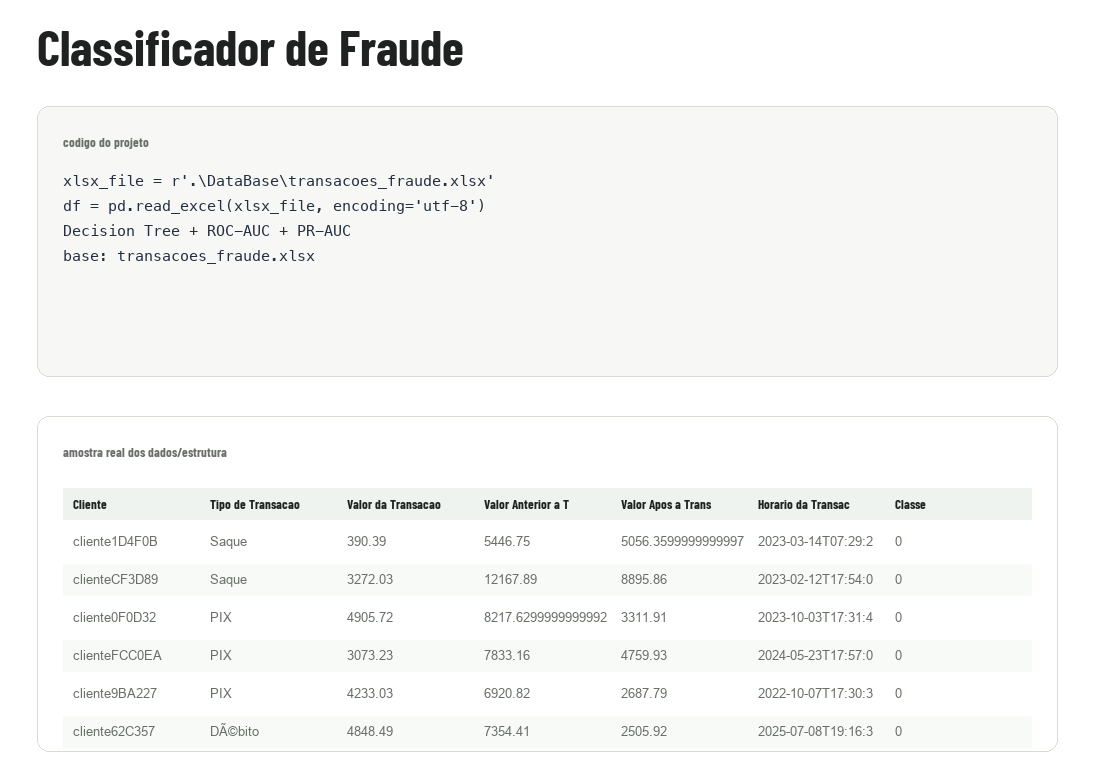
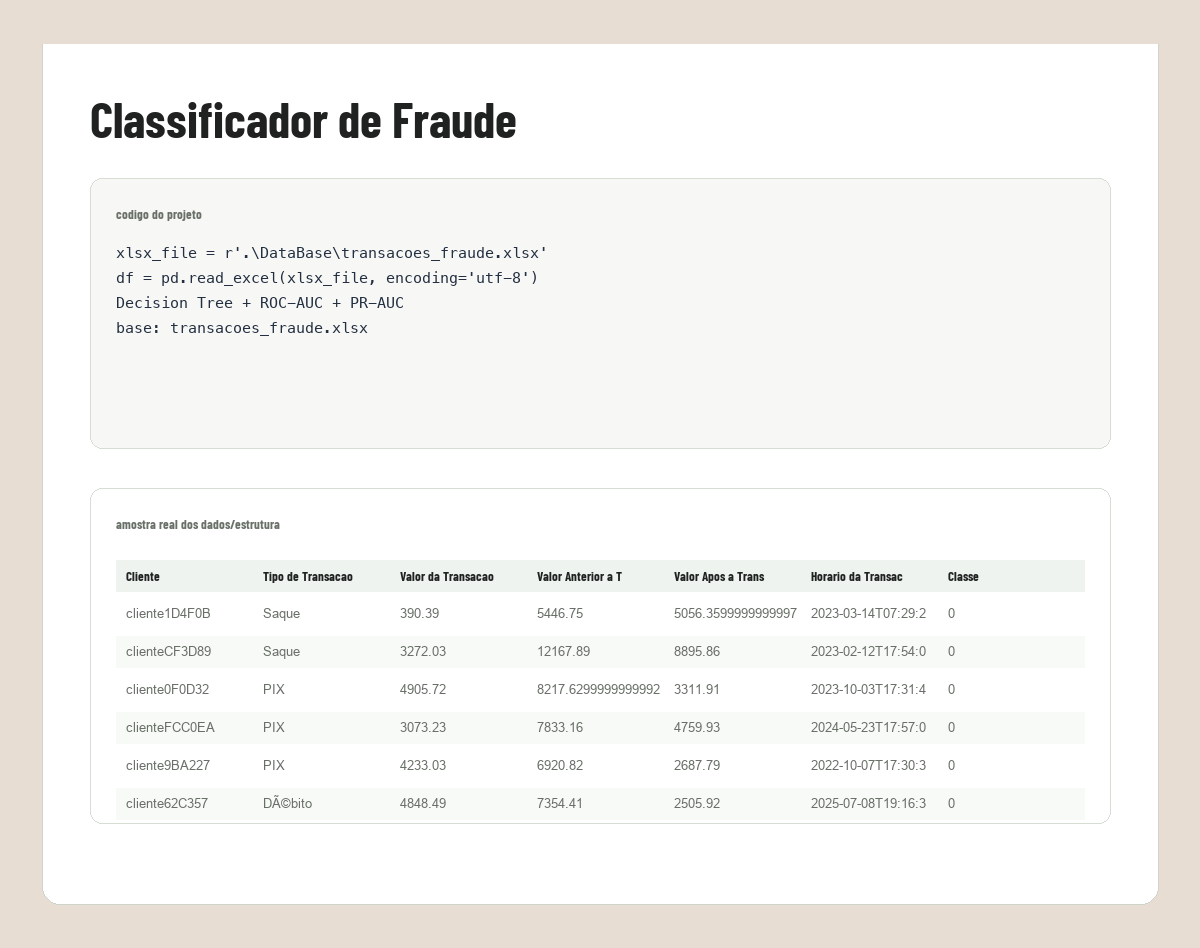
Project previews: strip only the window chrome, keep content intact
- Remove the browser-mockup title bar from the 11 AI-generated previews

- Keep content at natural scale (no zoom/crop); card-colored margins stay seamless

- Display seamlessly (contain, transparent, no frame); bump cache-busting query

diff --git a/dist/index.html b/dist/index.html
@@ -112,7 +112,7 @@
 
         <article class="project" data-category="dados ia" hidden>
           <button type="button" class="project-visual visual-churn" data-project="churn" aria-label="Conhecer o projeto Análise de Churn SaaS">
-            <img class="project-preview-image" src="assets/gh-churn.png?v=20261009" alt="Dashboard visual do projeto Análise de Churn SaaS" width="1200" height="600" loading="lazy">
+            <img class="project-preview-image" src="assets/gh-churn.png?v=20261010" alt="Dashboard visual do projeto Análise de Churn SaaS" width="1200" height="600" loading="lazy">
             <span class="project-open"><img src="assets/icons/arrow-up-right.svg" alt="" width="24" height="24"></span>
           </button>
           <div class="project-meta"><div><p class="eyebrow">PYTHON · SCIKIT-LEARN · XGBOOST</p><h3><button type="button" data-project="churn" data-i18n="churnTitle">Análise de Churn SaaS</button></h3></div><span>2026</span></div><p class="project-description" data-i18n="churnDescription">Modelagem preditiva de cancelamento (Logistic Regression, Random Forest e XGBoost) com interpretação de variáveis e recomendações para Produto e CS.</p>
@@ -120,7 +120,7 @@
 
         <article class="project" data-category="software" hidden>
           <button type="button" class="project-visual visual-lyrics" data-project="lyrics" aria-label="Conhecer o projeto Language Lyrics Lab">
-            <img class="project-preview-image" src="assets/gh-lyrics.png?v=20261009" alt="Captura do aplicativo Language Lyrics Lab com sessão de estudo e letras traduzidas" width="1200" height="600" loading="lazy">
+            <img class="project-preview-image" src="assets/gh-lyrics.png?v=20261010" alt="Captura do aplicativo Language Lyrics Lab com sessão de estudo e letras traduzidas" width="1200" height="600" loading="lazy">
             <span class="project-open"><img src="assets/icons/arrow-up-right.svg" alt="" width="24" height="24"></span>
           </button>
           <div class="project-meta"><div><p class="eyebrow">EXPO · TYPESCRIPT · ÁUDIO</p><h3><button type="button" data-project="lyrics">Language Lyrics Lab</button></h3></div><span>2026</span></div><p class="project-description" data-i18n="lyricsDescription">App de idiomas com letras sincronizadas, tradução linha a linha, flashcards e modos de revisão, usando LRCLIB e LibreTranslate.</p>
@@ -128,7 +128,7 @@
 
         <article class="project" data-category="software" hidden>
           <button type="button" class="project-visual visual-scheduler" data-project="scheduler" aria-label="Conhecer o projeto Simulador de Escalonamento">
-            <img class="project-preview-image" src="assets/gh-scheduler.png?v=20261009" alt="Visual do simulador de escalonamento com linha do tempo e métricas do motor" width="1200" height="600" loading="lazy">
+            <img class="project-preview-image" src="assets/gh-scheduler.png?v=20261010" alt="Visual do simulador de escalonamento com linha do tempo e métricas do motor" width="1200" height="600" loading="lazy">
             <span class="project-open"><img src="assets/icons/arrow-up-right.svg" alt="" width="24" height="24"></span>
           </button>
           <div class="project-meta"><div><p class="eyebrow">PYTHON · SISTEMAS OPERACIONAIS</p><h3><button type="button" data-project="scheduler" data-i18n="schedulerTitle">Simulador de Escalonamento</button></h3></div><span>2026</span></div><p class="project-description" data-i18n="schedulerDescription">Simulador de algoritmos de escalonamento de CPU com inversão e herança de prioridade, protocolo de teto, aging, cenários persistentes e testes.</p>
@@ -136,7 +136,7 @@
 
         <article class="project" data-category="software" hidden>
           <button type="button" class="project-visual visual-doppler" data-project="doppler" aria-label="Conhecer o projeto Simulador de Áudio Doppler">
-            <img class="project-preview-image" src="assets/gh-doppler.png?v=20261009" alt="Prévia fiel da interface JavaFX do simulador de áudio Doppler" width="1200" height="600" loading="lazy">
+            <img class="project-preview-image" src="assets/gh-doppler.png?v=20261010" alt="Prévia fiel da interface JavaFX do simulador de áudio Doppler" width="1200" height="600" loading="lazy">
             <span class="project-open"><img src="assets/icons/arrow-up-right.svg" alt="" width="24" height="24"></span>
           </button>
           <div class="project-meta"><div><p class="eyebrow">JAVA · POO · SQL</p><h3><button type="button" data-project="doppler" data-i18n="dopplerTitle">Simulador de Áudio Doppler</button></h3></div><span>2025</span></div><p class="project-description" data-i18n="dopplerDescription">Projeto multidisciplinar em Java que simula o comportamento do áudio com o efeito Doppler, unindo física, orientação a objetos e banco de dados.</p>
@@ -144,7 +144,7 @@
 
         <article class="project" data-category="ia dados" hidden>
           <button type="button" class="project-visual visual-fraud" data-project="fraud" aria-label="Conhecer o projeto Classificador de Fraude">
-            <img class="project-preview-image" src="assets/gh-fraud.png?v=20261009" alt="Dashboard do classificador de fraude usando a base transacoes_fraude.xlsx" width="1200" height="600" loading="lazy">
+            <img class="project-preview-image" src="assets/gh-fraud.png?v=20261010" alt="Dashboard do classificador de fraude usando a base transacoes_fraude.xlsx" width="1200" height="600" loading="lazy">
             <span class="project-open"><img src="assets/icons/arrow-up-right.svg" alt="" width="24" height="24"></span>
           </button>
           <div class="project-meta"><div><p class="eyebrow">PYTHON · DECISION TREE · ML</p><h3><button type="button" data-project="fraud" data-i18n="fraudTitle">Classificador de Fraude</button></h3></div><span>2025</span></div><p class="project-description" data-i18n="fraudDescription">Árvore de decisão para sinalizar transações fraudulentas: EDA, preparo de atributos, tratamento de desbalanceamento e avaliação por ROC-AUC e PR-AUC.</p>
@@ -152,7 +152,7 @@
 
         <article class="project" data-category="software" hidden>
           <button type="button" class="project-visual visual-homework" data-project="homework" aria-label="Conhecer o projeto Gestor de Tarefas Escolares">
-            <img class="project-preview-image" src="assets/gh-homework.png?v=20261009" alt="Prévia da tela de gráfico do app Homework Management" width="1200" height="600" loading="lazy">
+            <img class="project-preview-image" src="assets/gh-homework.png?v=20261010" alt="Prévia da tela de gráfico do app Homework Management" width="1200" height="600" loading="lazy">
             <span class="project-open"><img src="assets/icons/arrow-up-right.svg" alt="" width="24" height="24"></span>
           </button>
           <div class="project-meta"><div><p class="eyebrow">REACT NATIVE · EXPO · SQLITE</p><h3><button type="button" data-project="homework" data-i18n="homeworkTitle">Gestor de Tarefas Escolares</button></h3></div><span>2026</span></div><p class="project-description" data-i18n="homeworkDescription">App mobile para organizar a vida escolar: alunos, trabalhos, atividades, progresso e gráficos, feito com React Native, Expo e SQLite.</p>
@@ -160,7 +160,7 @@
 
         <article class="project" data-category="dados" hidden>
           <button type="button" class="project-visual visual-dashboards" data-project="dashboards" aria-label="Conhecer o projeto Dashboards de Vendas e Clientes">
-            <img class="project-preview-image" src="assets/gh-dashboards.png?v=20261009" alt="Dashboard de vendas e clientes gerado a partir da planilha DadosN2.xlsx" width="1200" height="600" loading="lazy">
+            <img class="project-preview-image" src="assets/gh-dashboards.png?v=20261010" alt="Dashboard de vendas e clientes gerado a partir da planilha DadosN2.xlsx" width="1200" height="600" loading="lazy">
             <span class="project-open"><img src="assets/icons/arrow-up-right.svg" alt="" width="24" height="24"></span>
           </button>
           <div class="project-meta"><div><p class="eyebrow">BI · DADOS · SQL</p><h3><button type="button" data-project="dashboards" data-i18n="dashboardsTitle">Dashboards de Vendas e Clientes</button></h3></div><span>2026</span></div><p class="project-description" data-i18n="dashboardsDescription">Dashboards de vendas e clientes para análise de negócio, unindo processamento de dados, visualização e conceitos de banco de dados.</p>
@@ -168,7 +168,7 @@
 
         <article class="project" data-category="software" hidden>
           <button type="button" class="project-visual visual-dna" data-project="dna" aria-label="Conhecer o projeto DNACharacter">
-            <img class="project-preview-image" src="assets/gh-dna.png?v=20261009" alt="Captura do app DNACharacter com avatar e controles de traços" width="1200" height="600" loading="lazy">
+            <img class="project-preview-image" src="assets/gh-dna.png?v=20261010" alt="Captura do app DNACharacter com avatar e controles de traços" width="1200" height="600" loading="lazy">
             <span class="project-open"><img src="assets/icons/arrow-up-right.svg" alt="" width="24" height="24"></span>
           </button>
           <div class="project-meta"><div><p class="eyebrow">JAVASCRIPT · HTML · CSS</p><h3><button type="button" data-project="dna">DNACharacter</button></h3></div><span>2025</span></div><p class="project-description" data-i18n="dnaDescription">App web paramétrico: ajuste cinco características e veja o avatar responder em corpo, postura e expressão.</p>
@@ -176,7 +176,7 @@
 
         <article class="project" data-category="dados" hidden>
           <button type="button" class="project-visual visual-netflix" data-project="netflix" aria-label="Conhecer o projeto Netflix Top 10 EDA">
-            <img class="project-preview-image" src="assets/gh-netflix.png?v=20261009" alt="Outputs reais do notebook Netflix Top 10 EDA" width="1200" height="600" loading="lazy">
+            <img class="project-preview-image" src="assets/gh-netflix.png?v=20261010" alt="Outputs reais do notebook Netflix Top 10 EDA" width="1200" height="600" loading="lazy">
             <span class="project-open"><img src="assets/icons/arrow-up-right.svg" alt="" width="24" height="24"></span>
           </button>
           <div class="project-meta"><div><p class="eyebrow">PYTHON · PANDAS · MATPLOTLIB</p><h3><button type="button" data-project="netflix">Netflix Top 10 EDA</button></h3></div><span>2025</span></div><p class="project-description" data-i18n="netflixDescription">Análise exploratória do Netflix Daily Top 10 com Pandas e Matplotlib: validação, distribuições, cobertura temporal e títulos de maior audiência.</p>
@@ -184,7 +184,7 @@
 
         <article class="project" data-category="dados" hidden>
           <button type="button" class="project-visual visual-meal" data-project="meal" aria-label="Conhecer o projeto Análise de Delivery">
-            <img class="project-preview-image" src="assets/gh-meal.png?v=20261009" alt="Dashboard de delivery gerado a partir de pedidos.csv e cardapio.csv" width="1200" height="600" loading="lazy">
+            <img class="project-preview-image" src="assets/gh-meal.png?v=20261010" alt="Dashboard de delivery gerado a partir de pedidos.csv e cardapio.csv" width="1200" height="600" loading="lazy">
             <span class="project-open"><img src="assets/icons/arrow-up-right.svg" alt="" width="24" height="24"></span>
           </button>
           <div class="project-meta"><div><p class="eyebrow">PYTHON · PANDAS · NUMPY</p><h3><button type="button" data-project="meal" data-i18n="mealTitle">Análise de Delivery</button></h3></div><span>2025</span></div><p class="project-description" data-i18n="mealDescription">Análise de dados de delivery com Pandas e NumPy: EDA, engenharia de atributos, tendência mensal de receita e principais KPIs de negócio.</p>
@@ -192,7 +192,7 @@
 
         <article class="project" data-category="dados" hidden>
           <button type="button" class="project-visual visual-dbprojects" data-project="dbprojects" aria-label="Conhecer o projeto Projetos de Banco de Dados">
-            <img class="project-preview-image" src="assets/gh-dbprojects.png?v=20261009" alt="Prévia dos notebooks Titanic e IceCream do projeto de banco de dados" width="1200" height="600" loading="lazy">
+            <img class="project-preview-image" src="assets/gh-dbprojects.png?v=20261010" alt="Prévia dos notebooks Titanic e IceCream do projeto de banco de dados" width="1200" height="600" loading="lazy">
             <span class="project-open"><img src="assets/icons/arrow-up-right.svg" alt="" width="24" height="24"></span>
           </button>
           <div class="project-meta"><div><p class="eyebrow">JUPYTER · PYTHON · SQL</p><h3><button type="button" data-project="dbprojects" data-i18n="dbprojectsTitle">Projetos de Banco de Dados</button></h3></div><span>2026</span></div><p class="project-description" data-i18n="dbprojectsDescription">Coleção de projetos de banco de dados e análise de dados, com exercícios práticos usando os conjuntos IceCream e Titanic.</p>
@@ -200,7 +200,7 @@
 
         <article class="project" data-category="dados" hidden>
           <button type="button" class="project-visual visual-statistics" data-project="statistics" aria-label="Conhecer o projeto Estatística para Devs">
-            <img class="project-preview-image" src="assets/gh-statistics.png?v=20261009" alt="Gráficos reais do script Pandas Revenue Challenge" width="1200" height="600" loading="lazy">
+            <img class="project-preview-image" src="assets/gh-statistics.png?v=20261010" alt="Gráficos reais do script Pandas Revenue Challenge" width="1200" height="600" loading="lazy">
             <span class="project-open"><img src="assets/icons/arrow-up-right.svg" alt="" width="24" height="24"></span>
           </button>
           <div class="project-meta"><div><p class="eyebrow">PYTHON · PANDAS · MATPLOTLIB</p><h3><button type="button" data-project="statistics" data-i18n="statisticsTitle">Estatística para Devs</button></h3></div><span>2025</span></div><p class="project-description" data-i18n="statisticsDescription">Desafio de estatística e análise com Pandas: limpeza de dados, cálculo de médias e geração de gráficos de barra e linha por mês com Matplotlib.</p>

diff --git a/index.html b/index.html
@@ -112,7 +112,7 @@
 
         <article class="project" data-category="dados ia" hidden>
           <button type="button" class="project-visual visual-churn" data-project="churn" aria-label="Conhecer o projeto Análise de Churn SaaS">
-            <img class="project-preview-image" src="assets/gh-churn.png?v=20261009" alt="Dashboard visual do projeto Análise de Churn SaaS" width="1200" height="600" loading="lazy">
+            <img class="project-preview-image" src="assets/gh-churn.png?v=20261010" alt="Dashboard visual do projeto Análise de Churn SaaS" width="1200" height="600" loading="lazy">
             <span class="project-open"><img src="assets/icons/arrow-up-right.svg" alt="" width="24" height="24"></span>
           </button>
           <div class="project-meta"><div><p class="eyebrow">PYTHON · SCIKIT-LEARN · XGBOOST</p><h3><button type="button" data-project="churn" data-i18n="churnTitle">Análise de Churn SaaS</button></h3></div><span>2026</span></div><p class="project-description" data-i18n="churnDescription">Modelagem preditiva de cancelamento (Logistic Regression, Random Forest e XGBoost) com interpretação de variáveis e recomendações para Produto e CS.</p>
@@ -120,7 +120,7 @@
 
         <article class="project" data-category="software" hidden>
           <button type="button" class="project-visual visual-lyrics" data-project="lyrics" aria-label="Conhecer o projeto Language Lyrics Lab">
-            <img class="project-preview-image" src="assets/gh-lyrics.png?v=20261009" alt="Captura do aplicativo Language Lyrics Lab com sessão de estudo e letras traduzidas" width="1200" height="600" loading="lazy">
+            <img class="project-preview-image" src="assets/gh-lyrics.png?v=20261010" alt="Captura do aplicativo Language Lyrics Lab com sessão de estudo e letras traduzidas" width="1200" height="600" loading="lazy">
             <span class="project-open"><img src="assets/icons/arrow-up-right.svg" alt="" width="24" height="24"></span>
           </button>
           <div class="project-meta"><div><p class="eyebrow">EXPO · TYPESCRIPT · ÁUDIO</p><h3><button type="button" data-project="lyrics">Language Lyrics Lab</button></h3></div><span>2026</span></div><p class="project-description" data-i18n="lyricsDescription">App de idiomas com letras sincronizadas, tradução linha a linha, flashcards e modos de revisão, usando LRCLIB e LibreTranslate.</p>
@@ -128,7 +128,7 @@
 
         <article class="project" data-category="software" hidden>
           <button type="button" class="project-visual visual-scheduler" data-project="scheduler" aria-label="Conhecer o projeto Simulador de Escalonamento">
-            <img class="project-preview-image" src="assets/gh-scheduler.png?v=20261009" alt="Visual do simulador de escalonamento com linha do tempo e métricas do motor" width="1200" height="600" loading="lazy">
+            <img class="project-preview-image" src="assets/gh-scheduler.png?v=20261010" alt="Visual do simulador de escalonamento com linha do tempo e métricas do motor" width="1200" height="600" loading="lazy">
             <span class="project-open"><img src="assets/icons/arrow-up-right.svg" alt="" width="24" height="24"></span>
           </button>
           <div class="project-meta"><div><p class="eyebrow">PYTHON · SISTEMAS OPERACIONAIS</p><h3><button type="button" data-project="scheduler" data-i18n="schedulerTitle">Simulador de Escalonamento</button></h3></div><span>2026</span></div><p class="project-description" data-i18n="schedulerDescription">Simulador de algoritmos de escalonamento de CPU com inversão e herança de prioridade, protocolo de teto, aging, cenários persistentes e testes.</p>
@@ -136,7 +136,7 @@
 
         <article class="project" data-category="software" hidden>
           <button type="button" class="project-visual visual-doppler" data-project="doppler" aria-label="Conhecer o projeto Simulador de Áudio Doppler">
-            <img class="project-preview-image" src="assets/gh-doppler.png?v=20261009" alt="Prévia fiel da interface JavaFX do simulador de áudio Doppler" width="1200" height="600" loading="lazy">
+            <img class="project-preview-image" src="assets/gh-doppler.png?v=20261010" alt="Prévia fiel da interface JavaFX do simulador de áudio Doppler" width="1200" height="600" loading="lazy">
             <span class="project-open"><img src="assets/icons/arrow-up-right.svg" alt="" width="24" height="24"></span>
           </button>
           <div class="project-meta"><div><p class="eyebrow">JAVA · POO · SQL</p><h3><button type="button" data-project="doppler" data-i18n="dopplerTitle">Simulador de Áudio Doppler</button></h3></div><span>2025</span></div><p class="project-description" data-i18n="dopplerDescription">Projeto multidisciplinar em Java que simula o comportamento do áudio com o efeito Doppler, unindo física, orientação a objetos e banco de dados.</p>
@@ -144,7 +144,7 @@
 
         <article class="project" data-category="ia dados" hidden>
           <button type="button" class="project-visual visual-fraud" data-project="fraud" aria-label="Conhecer o projeto Classificador de Fraude">
-            <img class="project-preview-image" src="assets/gh-fraud.png?v=20261009" alt="Dashboard do classificador de fraude usando a base transacoes_fraude.xlsx" width="1200" height="600" loading="lazy">
+            <img class="project-preview-image" src="assets/gh-fraud.png?v=20261010" alt="Dashboard do classificador de fraude usando a base transacoes_fraude.xlsx" width="1200" height="600" loading="lazy">
             <span class="project-open"><img src="assets/icons/arrow-up-right.svg" alt="" width="24" height="24"></span>
           </button>
           <div class="project-meta"><div><p class="eyebrow">PYTHON · DECISION TREE · ML</p><h3><button type="button" data-project="fraud" data-i18n="fraudTitle">Classificador de Fraude</button></h3></div><span>2025</span></div><p class="project-description" data-i18n="fraudDescription">Árvore de decisão para sinalizar transações fraudulentas: EDA, preparo de atributos, tratamento de desbalanceamento e avaliação por ROC-AUC e PR-AUC.</p>
@@ -152,7 +152,7 @@
 
         <article class="project" data-category="software" hidden>
           <button type="button" class="project-visual visual-homework" data-project="homework" aria-label="Conhecer o projeto Gestor de Tarefas Escolares">
-            <img class="project-preview-image" src="assets/gh-homework.png?v=20261009" alt="Prévia da tela de gráfico do app Homework Management" width="1200" height="600" loading="lazy">
+            <img class="project-preview-image" src="assets/gh-homework.png?v=20261010" alt="Prévia da tela de gráfico do app Homework Management" width="1200" height="600" loading="lazy">
             <span class="project-open"><img src="assets/icons/arrow-up-right.svg" alt="" width="24" height="24"></span>
           </button>
           <div class="project-meta"><div><p class="eyebrow">REACT NATIVE · EXPO · SQLITE</p><h3><button type="button" data-project="homework" data-i18n="homeworkTitle">Gestor de Tarefas Escolares</button></h3></div><span>2026</span></div><p class="project-description" data-i18n="homeworkDescription">App mobile para organizar a vida escolar: alunos, trabalhos, atividades, progresso e gráficos, feito com React Native, Expo e SQLite.</p>
@@ -160,7 +160,7 @@
 
         <article class="project" data-category="dados" hidden>
           <button type="button" class="project-visual visual-dashboards" data-project="dashboards" aria-label="Conhecer o projeto Dashboards de Vendas e Clientes">
-            <img class="project-preview-image" src="assets/gh-dashboards.png?v=20261009" alt="Dashboard de vendas e clientes gerado a partir da planilha DadosN2.xlsx" width="1200" height="600" loading="lazy">
+            <img class="project-preview-image" src="assets/gh-dashboards.png?v=20261010" alt="Dashboard de vendas e clientes gerado a partir da planilha DadosN2.xlsx" width="1200" height="600" loading="lazy">
             <span class="project-open"><img src="assets/icons/arrow-up-right.svg" alt="" width="24" height="24"></span>
           </button>
           <div class="project-meta"><div><p class="eyebrow">BI · DADOS · SQL</p><h3><button type="button" data-project="dashboards" data-i18n="dashboardsTitle">Dashboards de Vendas e Clientes</button></h3></div><span>2026</span></div><p class="project-description" data-i18n="dashboardsDescription">Dashboards de vendas e clientes para análise de negócio, unindo processamento de dados, visualização e conceitos de banco de dados.</p>
@@ -168,7 +168,7 @@
 
         <article class="project" data-category="software" hidden>
           <button type="button" class="project-visual visual-dna" data-project="dna" aria-label="Conhecer o projeto DNACharacter">
-            <img class="project-preview-image" src="assets/gh-dna.png?v=20261009" alt="Captura do app DNACharacter com avatar e controles de traços" width="1200" height="600" loading="lazy">
+            <img class="project-preview-image" src="assets/gh-dna.png?v=20261010" alt="Captura do app DNACharacter com avatar e controles de traços" width="1200" height="600" loading="lazy">
             <span class="project-open"><img src="assets/icons/arrow-up-right.svg" alt="" width="24" height="24"></span>
           </button>
           <div class="project-meta"><div><p class="eyebrow">JAVASCRIPT · HTML · CSS</p><h3><button type="button" data-project="dna">DNACharacter</button></h3></div><span>2025</span></div><p class="project-description" data-i18n="dnaDescription">App web paramétrico: ajuste cinco características e veja o avatar responder em corpo, postura e expressão.</p>
@@ -176,7 +176,7 @@
 
         <article class="project" data-category="dados" hidden>
           <button type="button" class="project-visual visual-netflix" data-project="netflix" aria-label="Conhecer o projeto Netflix Top 10 EDA">
-            <img class="project-preview-image" src="assets/gh-netflix.png?v=20261009" alt="Outputs reais do notebook Netflix Top 10 EDA" width="1200" height="600" loading="lazy">
+            <img class="project-preview-image" src="assets/gh-netflix.png?v=20261010" alt="Outputs reais do notebook Netflix Top 10 EDA" width="1200" height="600" loading="lazy">
             <span class="project-open"><img src="assets/icons/arrow-up-right.svg" alt="" width="24" height="24"></span>
           </button>
           <div class="project-meta"><div><p class="eyebrow">PYTHON · PANDAS · MATPLOTLIB</p><h3><button type="button" data-project="netflix">Netflix Top 10 EDA</button></h3></div><span>2025</span></div><p class="project-description" data-i18n="netflixDescription">Análise exploratória do Netflix Daily Top 10 com Pandas e Matplotlib: validação, distribuições, cobertura temporal e títulos de maior audiência.</p>
@@ -184,7 +184,7 @@
 
         <article class="project" data-category="dados" hidden>
           <button type="button" class="project-visual visual-meal" data-project="meal" aria-label="Conhecer o projeto Análise de Delivery">
-            <img class="project-preview-image" src="assets/gh-meal.png?v=20261009" alt="Dashboard de delivery gerado a partir de pedidos.csv e cardapio.csv" width="1200" height="600" loading="lazy">
+            <img class="project-preview-image" src="assets/gh-meal.png?v=20261010" alt="Dashboard de delivery gerado a partir de pedidos.csv e cardapio.csv" width="1200" height="600" loading="lazy">
             <span class="project-open"><img src="assets/icons/arrow-up-right.svg" alt="" width="24" height="24"></span>
           </button>
           <div class="project-meta"><div><p class="eyebrow">PYTHON · PANDAS · NUMPY</p><h3><button type="button" data-project="meal" data-i18n="mealTitle">Análise de Delivery</button></h3></div><span>2025</span></div><p class="project-description" data-i18n="mealDescription">Análise de dados de delivery com Pandas e NumPy: EDA, engenharia de atributos, tendência mensal de receita e principais KPIs de negócio.</p>
@@ -192,7 +192,7 @@
 
         <article class="project" data-category="dados" hidden>
           <button type="button" class="project-visual visual-dbprojects" data-project="dbprojects" aria-label="Conhecer o projeto Projetos de Banco de Dados">
-            <img class="project-preview-image" src="assets/gh-dbprojects.png?v=20261009" alt="Prévia dos notebooks Titanic e IceCream do projeto de banco de dados" width="1200" height="600" loading="lazy">
+            <img class="project-preview-image" src="assets/gh-dbprojects.png?v=20261010" alt="Prévia dos notebooks Titanic e IceCream do projeto de banco de dados" width="1200" height="600" loading="lazy">
             <span class="project-open"><img src="assets/icons/arrow-up-right.svg" alt="" width="24" height="24"></span>
           </button>
           <div class="project-meta"><div><p class="eyebrow">JUPYTER · PYTHON · SQL</p><h3><button type="button" data-project="dbprojects" data-i18n="dbprojectsTitle">Projetos de Banco de Dados</button></h3></div><span>2026</span></div><p class="project-description" data-i18n="dbprojectsDescription">Coleção de projetos de banco de dados e análise de dados, com exercícios práticos usando os conjuntos IceCream e Titanic.</p>
@@ -200,7 +200,7 @@
 
         <article class="project" data-category="dados" hidden>
           <button type="button" class="project-visual visual-statistics" data-project="statistics" aria-label="Conhecer o projeto Estatística para Devs">
-            <img class="project-preview-image" src="assets/gh-statistics.png?v=20261009" alt="Gráficos reais do script Pandas Revenue Challenge" width="1200" height="600" loading="lazy">
+            <img class="project-preview-image" src="assets/gh-statistics.png?v=20261010" alt="Gráficos reais do script Pandas Revenue Challenge" width="1200" height="600" loading="lazy">
             <span class="project-open"><img src="assets/icons/arrow-up-right.svg" alt="" width="24" height="24"></span>
           </button>
           <div class="project-meta"><div><p class="eyebrow">PYTHON · PANDAS · MATPLOTLIB</p><h3><button type="button" data-project="statistics" data-i18n="statisticsTitle">Estatística para Devs</button></h3></div><span>2025</span></div><p class="project-description" data-i18n="statisticsDescription">Desafio de estatística e análise com Pandas: limpeza de dados, cálculo de médias e geração de gráficos de barra e linha por mês com Matplotlib.</p>

diff --git a/dist/styles.css b/dist/styles.css
@@ -274,7 +274,7 @@ a.contact-channel:hover .channel-arrow,a.contact-channel:focus-visible .channel-
 .filter-github img{transition:transform .2s}
 .filter-github:hover img{transform:translate(3px,-3px)}
 .project-preview-image{position:absolute;inset:15% 3.5% 4.5%;width:93%;height:80.5%;object-fit:contain;object-position:center;background:#fff;border:1px solid #bdc6cd;border-radius:3px;box-shadow:0 12px 25px #13233a25;transition:transform .45s cubic-bezier(.22,.61,.36,1)}
-.visual-churn .project-preview-image,.visual-lyrics .project-preview-image,.visual-scheduler .project-preview-image,.visual-doppler .project-preview-image,.visual-fraud .project-preview-image,.visual-homework .project-preview-image,.visual-dashboards .project-preview-image,.visual-netflix .project-preview-image,.visual-meal .project-preview-image,.visual-dbprojects .project-preview-image,.visual-statistics .project-preview-image{inset:16px;width:calc(100% - 32px);height:calc(100% - 32px);object-fit:cover;object-position:center;background:#fff}
+.visual-churn .project-preview-image,.visual-lyrics .project-preview-image,.visual-scheduler .project-preview-image,.visual-doppler .project-preview-image,.visual-fraud .project-preview-image,.visual-homework .project-preview-image,.visual-dashboards .project-preview-image,.visual-netflix .project-preview-image,.visual-meal .project-preview-image,.visual-dbprojects .project-preview-image,.visual-statistics .project-preview-image{inset:0;width:100%;height:100%;object-fit:contain;object-position:center;background:transparent;border:0;box-shadow:none}
 .visual-dna .project-preview-image{inset:16px;width:calc(100% - 32px);height:calc(100% - 32px);object-fit:cover;object-position:center;background:transparent;border:0;box-shadow:none}
 .project-visual:hover>.project-preview-image{transform:translateY(-5px)}
 .visual-behavior{background:#dce4ed}

diff --git a/styles.css b/styles.css
@@ -274,7 +274,7 @@ a.contact-channel:hover .channel-arrow,a.contact-channel:focus-visible .channel-
 .filter-github img{transition:transform .2s}
 .filter-github:hover img{transform:translate(3px,-3px)}
 .project-preview-image{position:absolute;inset:15% 3.5% 4.5%;width:93%;height:80.5%;object-fit:contain;object-position:center;background:#fff;border:1px solid #bdc6cd;border-radius:3px;box-shadow:0 12px 25px #13233a25;transition:transform .45s cubic-bezier(.22,.61,.36,1)}
-.visual-churn .project-preview-image,.visual-lyrics .project-preview-image,.visual-scheduler .project-preview-image,.visual-doppler .project-preview-image,.visual-fraud .project-preview-image,.visual-homework .project-preview-image,.visual-dashboards .project-preview-image,.visual-netflix .project-preview-image,.visual-meal .project-preview-image,.visual-dbprojects .project-preview-image,.visual-statistics .project-preview-image{inset:16px;width:calc(100% - 32px);height:calc(100% - 32px);object-fit:cover;object-position:center;background:#fff}
+.visual-churn .project-preview-image,.visual-lyrics .project-preview-image,.visual-scheduler .project-preview-image,.visual-doppler .project-preview-image,.visual-fraud .project-preview-image,.visual-homework .project-preview-image,.visual-dashboards .project-preview-image,.visual-netflix .project-preview-image,.visual-meal .project-preview-image,.visual-dbprojects .project-preview-image,.visual-statistics .project-preview-image{inset:0;width:100%;height:100%;object-fit:contain;object-position:center;background:transparent;border:0;box-shadow:none}
 .visual-dna .project-preview-image{inset:16px;width:calc(100% - 32px);height:calc(100% - 32px);object-fit:cover;object-position:center;background:transparent;border:0;box-shadow:none}
 .project-visual:hover>.project-preview-image{transform:translateY(-5px)}
 .visual-behavior{background:#dce4ed}
